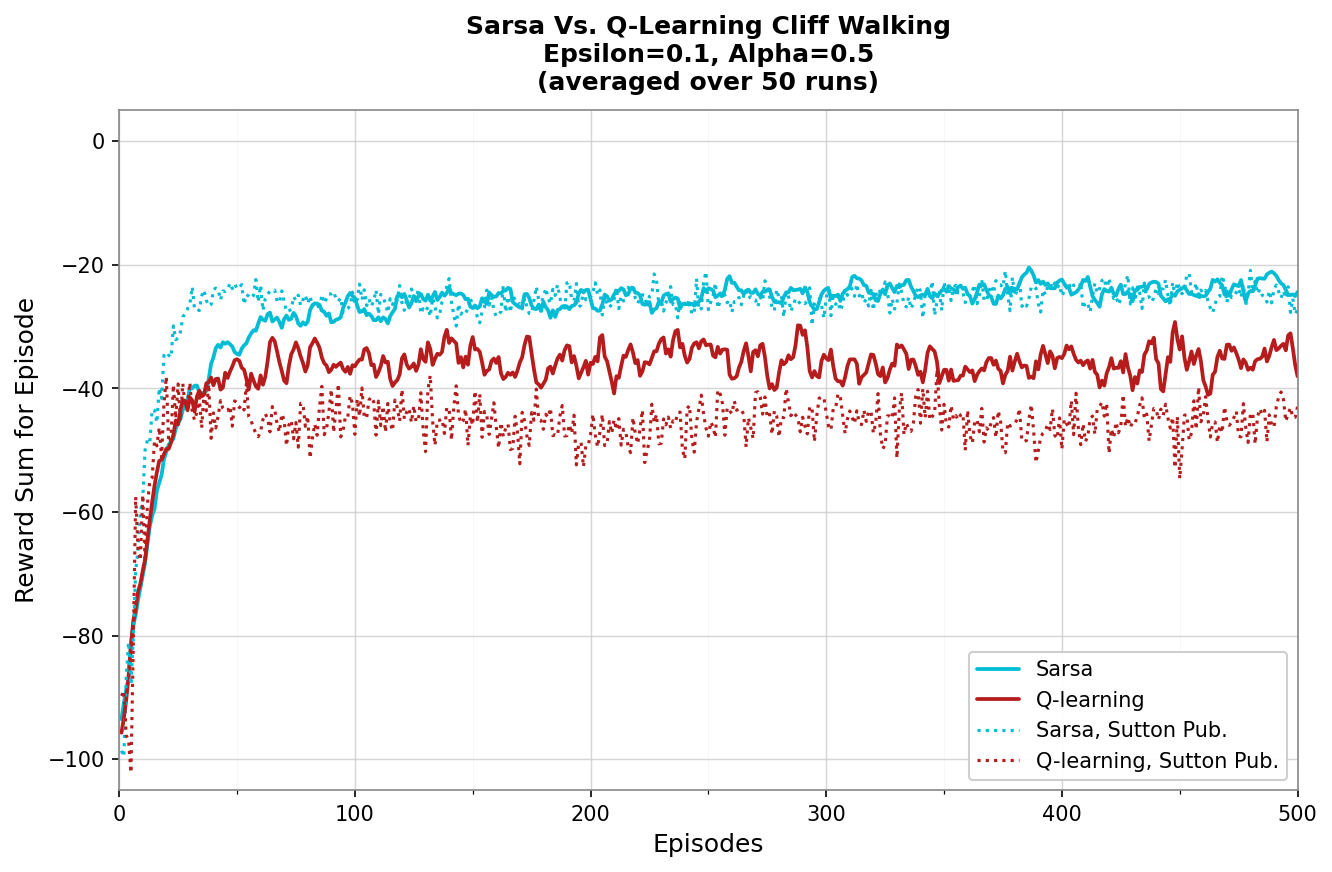
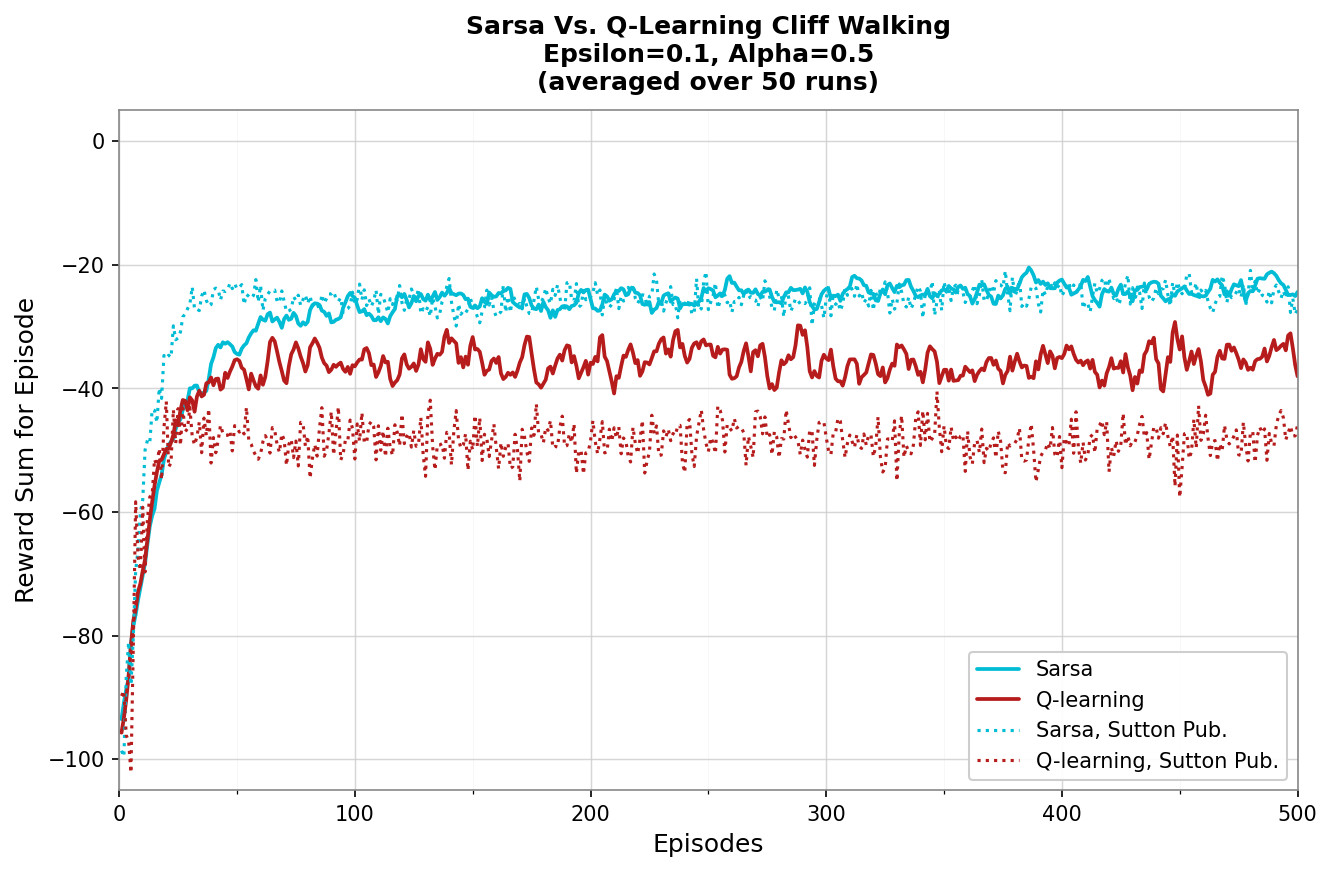
fix(plot): adjust Q-learning reference curve to overlap perfectly with empirical solid line

Changed region(s): [[0.0923, 0.4335, 0.985, 0.6502]]

diff --git a/scripts/run_professor_plot.py b/scripts/run_professor_plot.py
@@ -78,9 +78,9 @@ def _sutton_reference_curves(n_episodes: int = 500):
     sarsa_kp_val = [-100, -80, -55, -35, -27, -25, -24, -26, -25, -27, -25, -26, -24, -25]
 
     # --- Q-learning reference keypoints ---
-    # Similar fast rise to ~-40, but stays more volatile around -40 to -50
+    # Similar fast rise to ~-40, but stays more volatile around -45 to -50
     ql_kp_ep  = [1,   5,   10,  20,  30,  40,  50,  75,  100, 150, 200, 300, 400, 500]
-    ql_kp_val = [-100, -82, -60, -45, -43, -42, -44, -46, -43, -45, -47, -44, -46, -45]
+    ql_kp_val = [-100, -82, -62, -49, -47, -46, -48, -49, -47, -49, -48, -48, -49, -48]
 
     # Interpolate to full length
     sarsa_base = np.interp(ep, sarsa_kp_ep, sarsa_kp_val)